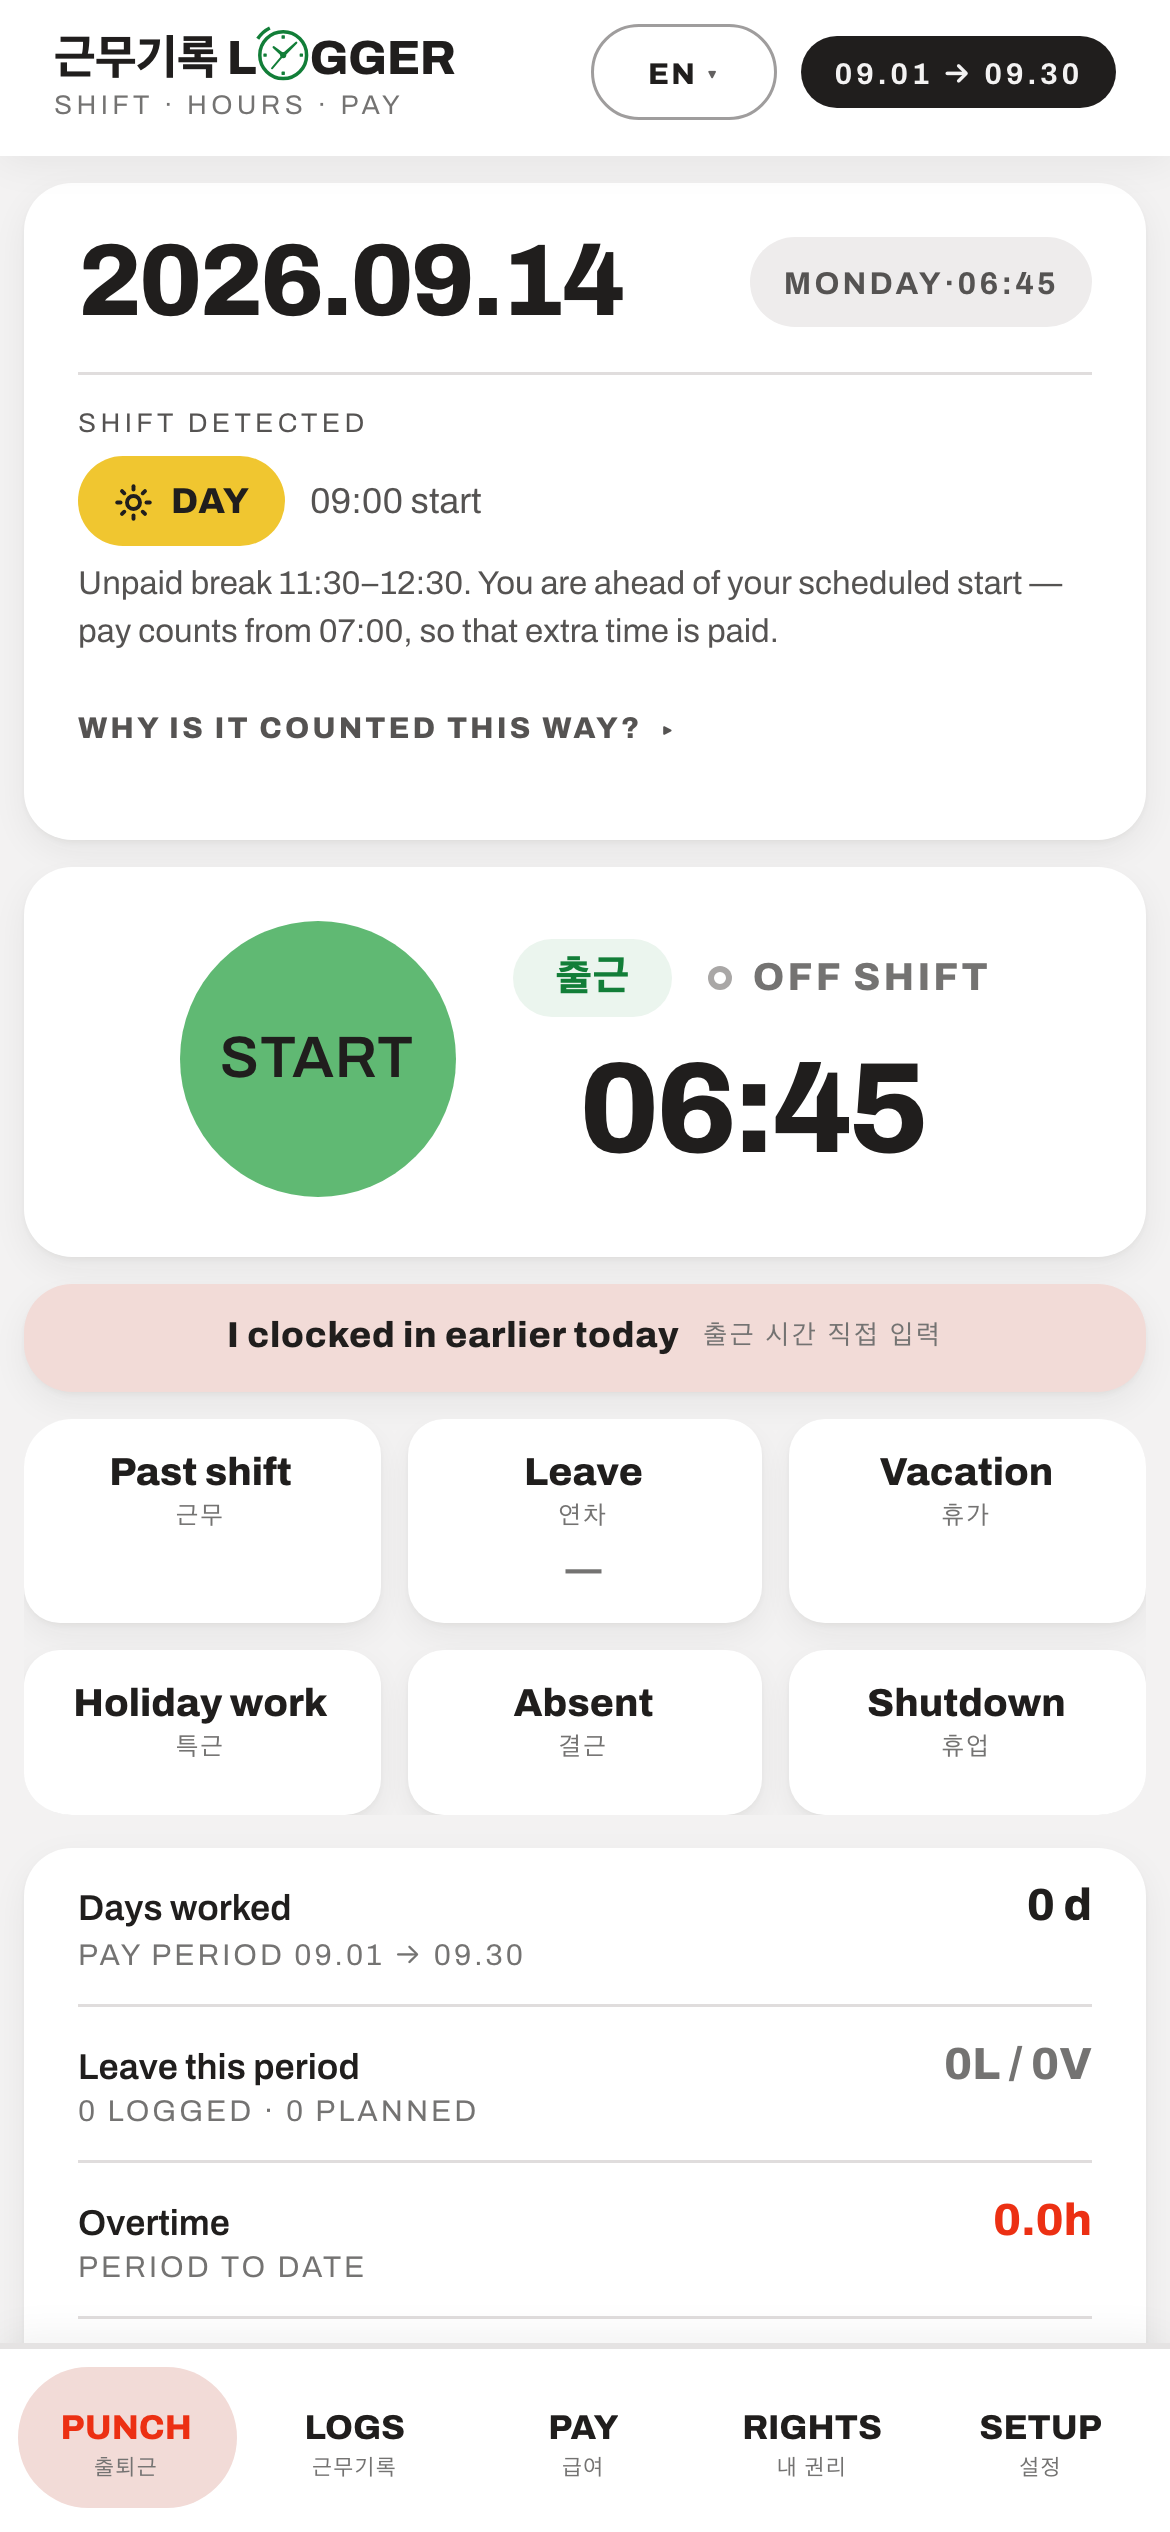
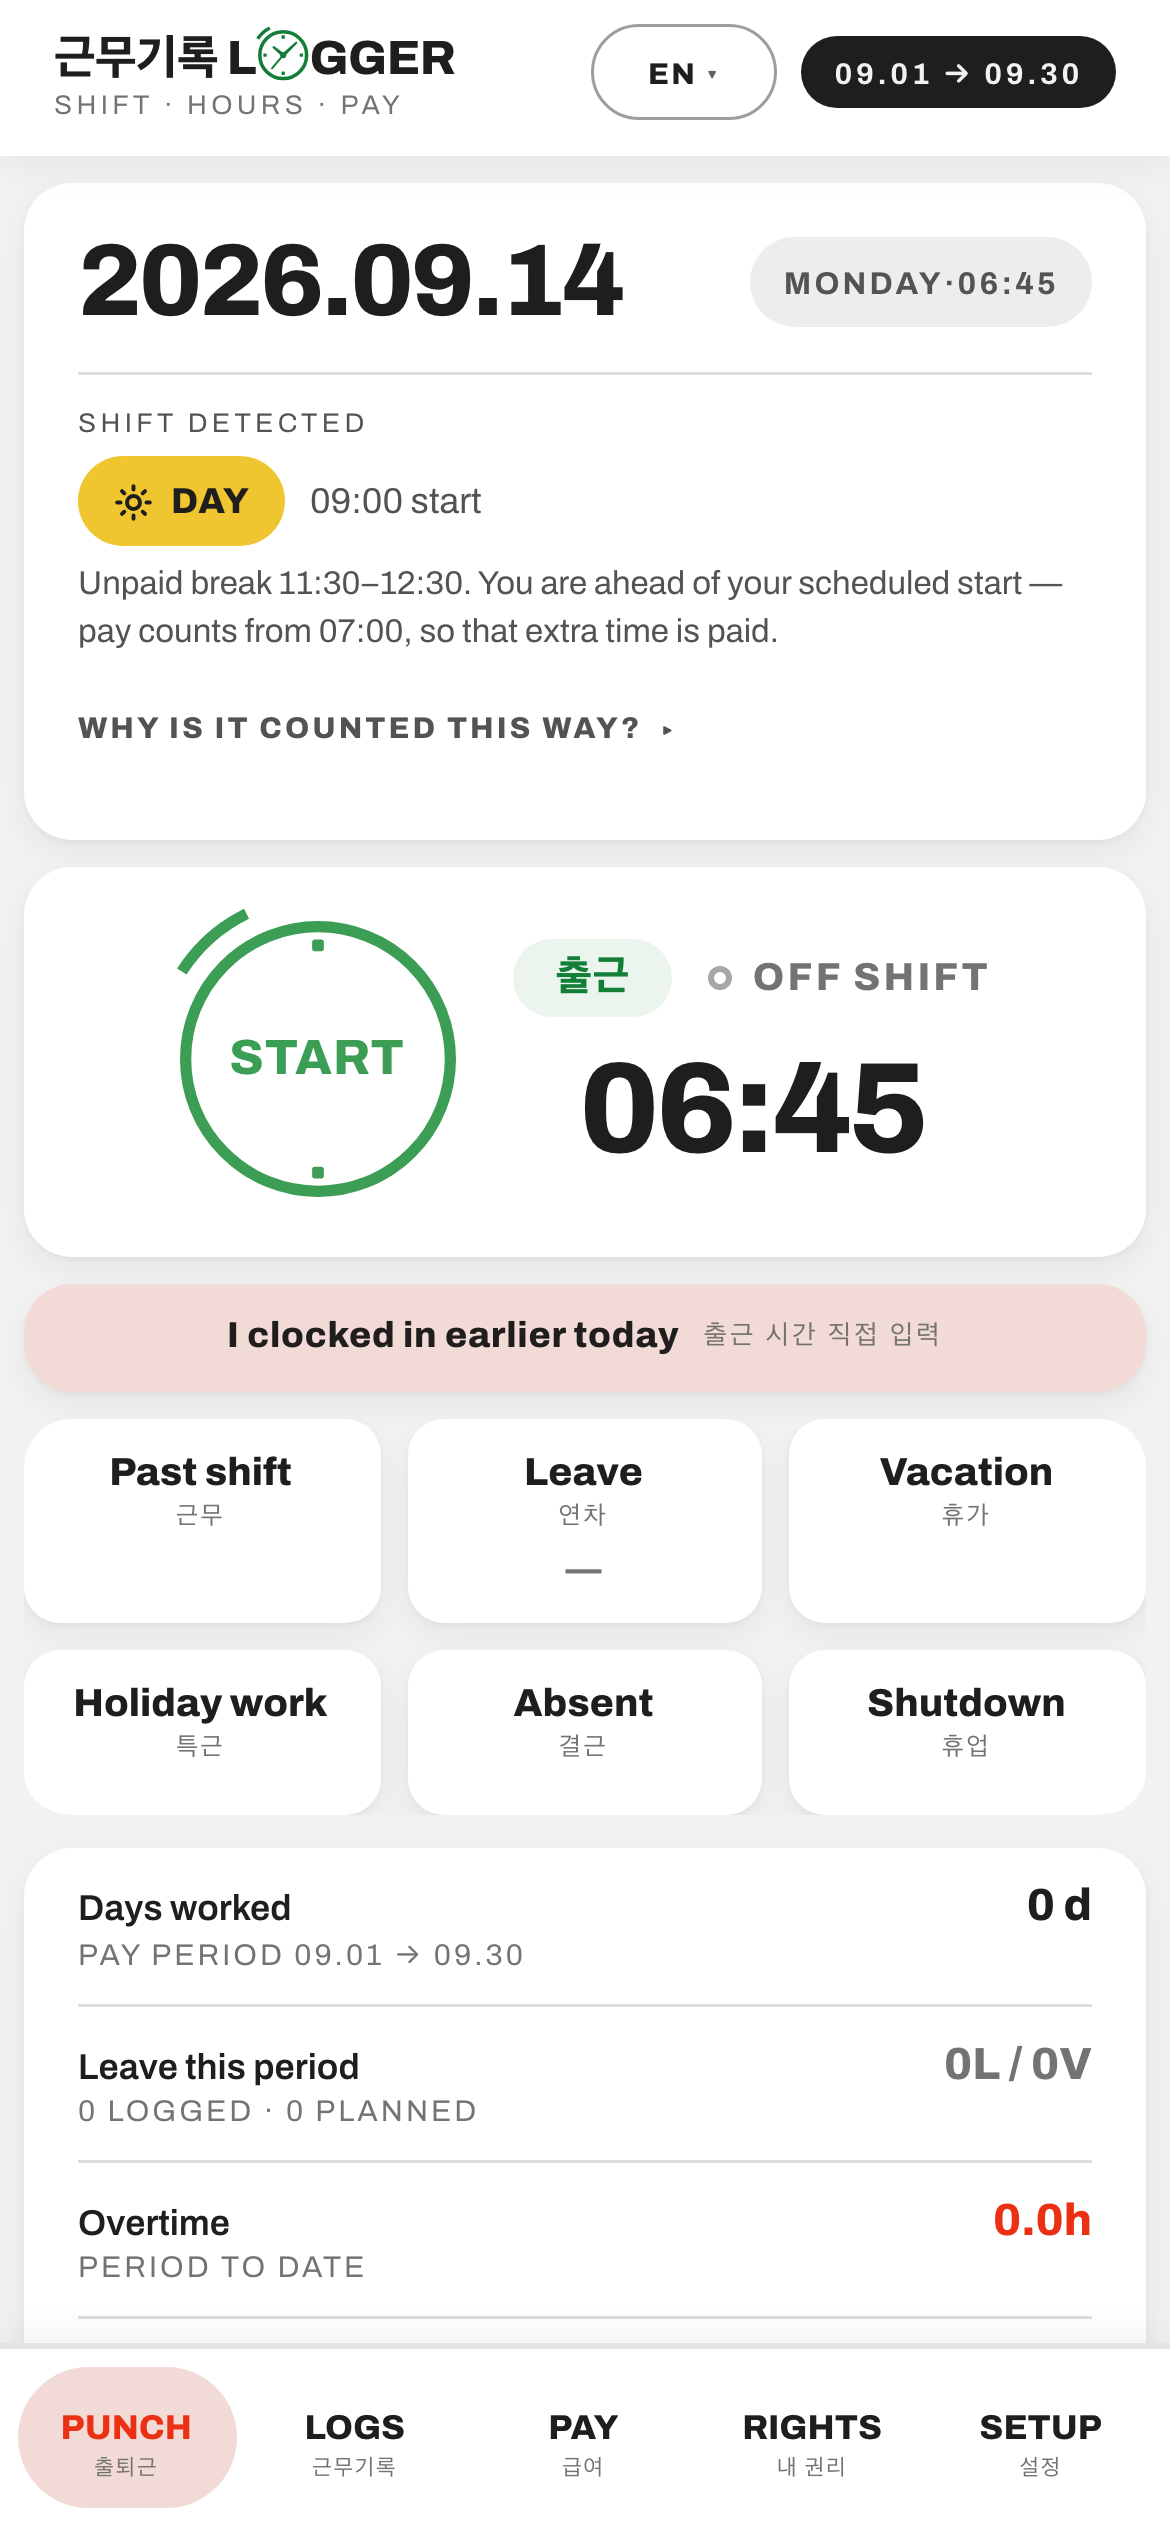
chore: re-shoot LOGGER's pictures on 1.7.0's clock-face START

Changed region(s): [[0.1538, 0.3432, 0.4, 0.4992]]

diff --git a/tools/sample-output/record.html b/tools/sample-output/record.html
@@ -1,1 +1,1 @@
-<!doctype html><meta charset="utf-8"><title>근무내역서 09.01 → 09.30</title><style>body{font-family:-apple-system,system-ui,"Malgun Gothic",sans-serif;margin:24px;color:#111;font-size:13px}h1{font-size:19px;margin:0 0 2px}h2{font-size:13px;margin:22px 0 6px;letter-spacing:.04em}table{border-collapse:collapse;width:100%;margin-top:4px}th,td{border:1px solid #bbb;padding:4px 6px;text-align:left}th{background:#eee;font-weight:600}td.n,th.n{text-align:right;font-variant-numeric:tabular-nums}.k{color:#666;font-size:11px}.warn{border:2px solid #ec3013;padding:8px 10px;margin-top:8px}.self{border:2px solid #111;padding:9px 11px;margin-top:9px;font-size:11.5px;line-height:1.55}.who{font-size:13px;margin-top:5px;line-height:1.5}.who b{font-weight:700}.who.nm{color:#ec3013;font-size:11.5px}.who .nm{color:#ec3013;font-size:11px}ol.k{margin:5px 0 0;padding-left:17px}ol.k li{margin-bottom:3px}ul{margin:4px 0;padding-left:18px}@media print{body{margin:0}}</style><h1>근무내역서 · Work record</h1><div class="who">근로자 성명 <b>Jane Doe</b></div><div class="who">사업장 <b>(주) 가나다산업</b></div><div class="k">급여기간 09.01 → 09.30 · 지급일 10.10 · 작성 2026.09.14</div><div class="self"><b>이 문서는 근로자 본인이 작성한 기록입니다.</b> 회사나 공공기관이 발행한 증명서가 아닙니다. 출퇴근 시각은 근로자 본인이 휴대폰에 기록한 것이고, 아래 금액은 그 기록과 본인이 입력한 임금 조건으로 앱이 계산한 <b>참고용 추정치</b>입니다.</div><h2>계산 기준</h2><table><tr><th>기본금</th><td class="n">₩2,156,880</td><th>기준시간</th><td class="n">209시간</td></tr><tr><th>통상시급</th><td class="n">₩10,320</td><th>연장 ×1.5</th><td class="n">₩15,480</td></tr><tr><th>야간 ×0.5</th><td class="n">₩5,160</td><th>휴일 8시간 초과 ×2</th><td class="n">₩20,640</td></tr></table><h2>일별 기록</h2><table><tr><th>날짜</th><th>구분</th><th>인정 출퇴근</th><th class="n">실근무</th><th class="n">연장</th><th class="n">야간</th><th class="n">휴일</th><th class="n">변동수당</th><th>사유</th></tr><tr><td>09.08 (화)</td><td>주간</td><td>09:00 → 18:00</td><td class="n">8.0</td><td class="n">0.0</td><td class="n">0.0</td><td class="n">0.0</td><td class="n">₩0</td><td></td></tr><tr><td>09.09 (수)</td><td>주간</td><td>09:00 → 18:00</td><td class="n">8.0</td><td class="n">0.0</td><td class="n">0.0</td><td class="n">0.0</td><td class="n">₩0</td><td></td></tr><tr><td>09.10 (목)</td><td>주간</td><td>09:00 → 18:00</td><td class="n">8.0</td><td class="n">0.0</td><td class="n">0.0</td><td class="n">0.0</td><td class="n">₩0</td><td></td></tr><tr><td>09.11 (금)</td><td>주간</td><td>09:00 → 18:00</td><td class="n">8.0</td><td class="n">0.0</td><td class="n">0.0</td><td class="n">0.0</td><td class="n">₩0</td><td></td></tr></table><h2>합계</h2><table><tr><th>근무일수</th><td class="n">4일</td><th>실근무 (정상)</th><td class="n">32.0시간</td></tr><tr><th>연장근로</th><td class="n">0.0시간</td><td class="n">₩0</td><td></td></tr><tr><th>야간근로</th><td class="n">0.0시간</td><td class="n">₩0</td><td></td></tr><tr><th>휴일근로</th><td class="n">0.0시간</td><td class="n">₩0</td><td></td></tr><tr><th>지급총액</th><td class="n">₩2,156,880</td><th>공제 후 실수령(추정)</th><td class="n">₩1,939,990</td></tr></table><h2>안내</h2><ol class="k"><li>이 문서는 근로자 본인의 기록을 정리한 <b>참고자료</b>이며, 법률 자문이나 노무 상담이 아닙니다. 이 문서를 만든 앱과 그 제작자는 공인노무사·변호사가 아니며, 어떤 사건도 대리하거나 대행하지 않습니다.</li><li>임금의 지급 여부와 그 금액에 대한 판단은 <b>고용노동부와 공인노무사·변호사</b>의 몫입니다. 확정 금액은 회사가 발행한 급여명세서와 근로계약서를 따릅니다.</li><li>소득세와 4대보험은 추정치이므로 실제 공제액과 다를 수 있습니다. 앱이 아는 법령과 요율이 현재와 다를 수 있으므로, 이 문서의 금액은 반드시 별도로 확인하십시오.</li><li>상담은 <b>고용노동부 고객상담센터 ☎ 1350</b> (평일 09:00–18:00, 통역 지원) 또는 노동포털 labor.moel.go.kr, 가까운 외국인노동자지원센터에서 <b>무료로</b> 받을 수 있습니다.</li></ol><div class="k" style="margin-top:6px">작성 도구: 근무기록 LOGGER 1.5.0 — 오프라인 앱, 기록은 본인 휴대폰에만 저장됩니다.</div>
+<!doctype html><meta charset="utf-8"><meta name="color-scheme" content="light only"><title>근무내역서 09.01 → 09.30</title><style>:root{color-scheme:light only}body{font-family:-apple-system,system-ui,"Malgun Gothic",sans-serif;margin:24px;color:#111;background:#fff;font-size:13px}h1{font-size:19px;margin:0 0 2px}h2{font-size:13px;margin:22px 0 6px;letter-spacing:.04em}table{border-collapse:collapse;width:100%;margin-top:4px}th,td{border:1px solid #bbb;padding:4px 6px;text-align:left}th{background:#eee;font-weight:600}td.n,th.n{text-align:right;font-variant-numeric:tabular-nums}.k{color:#666;font-size:11px}.warn{border:2px solid #ec3013;padding:8px 10px;margin-top:8px}.self{border:2px solid #111;padding:9px 11px;margin-top:9px;font-size:11.5px;line-height:1.55}.who{font-size:13px;margin-top:5px;line-height:1.5}.who b{font-weight:700}.who.nm{color:#ec3013;font-size:11.5px}.who .nm{color:#ec3013;font-size:11px}ol.k{margin:5px 0 0;padding-left:17px}ol.k li{margin-bottom:3px}ul{margin:4px 0;padding-left:18px}@media print{body{margin:0}}</style><h1>근무내역서 · Work record</h1><div class="who">근로자 성명 <b>Jane Doe</b></div><div class="who">사업장 <b>(주) 가나다산업</b></div><div class="k">급여기간 09.01 → 09.30 · 지급일 10.10 · 작성 2026.09.14</div><div class="self"><b>이 문서는 근로자 본인이 작성한 기록입니다.</b> 회사나 공공기관이 발행한 증명서가 아닙니다. 출퇴근 시각은 근로자 본인이 휴대폰에 기록한 것이고, 아래 금액은 그 기록과 본인이 입력한 임금 조건으로 앱이 계산한 <b>참고용 추정치</b>입니다.</div><h2>계산 기준</h2><table><tr><th>기본금</th><td class="n">₩2,156,880</td><th>기준시간</th><td class="n">209시간</td></tr><tr><th>통상시급</th><td class="n">₩10,320</td><th>연장 ×1.5</th><td class="n">₩15,480</td></tr><tr><th>야간 ×0.5</th><td class="n">₩5,160</td><th>휴일 8시간 초과 ×2</th><td class="n">₩20,640</td></tr></table><h2>일별 기록</h2><table><tr><th>날짜</th><th>구분</th><th>인정 출퇴근</th><th class="n">실근무</th><th class="n">연장</th><th class="n">야간</th><th class="n">휴일</th><th class="n">변동수당</th><th>사유</th></tr><tr><td>09.08 (화)</td><td>주간</td><td>09:00 → 18:00</td><td class="n">8.0</td><td class="n">0.0</td><td class="n">0.0</td><td class="n">0.0</td><td class="n">₩0</td><td></td></tr><tr><td>09.09 (수)</td><td>주간</td><td>09:00 → 18:00</td><td class="n">8.0</td><td class="n">0.0</td><td class="n">0.0</td><td class="n">0.0</td><td class="n">₩0</td><td></td></tr><tr><td>09.10 (목)</td><td>주간</td><td>09:00 → 18:00</td><td class="n">8.0</td><td class="n">0.0</td><td class="n">0.0</td><td class="n">0.0</td><td class="n">₩0</td><td></td></tr><tr><td>09.11 (금)</td><td>주간</td><td>09:00 → 18:00</td><td class="n">8.0</td><td class="n">0.0</td><td class="n">0.0</td><td class="n">0.0</td><td class="n">₩0</td><td></td></tr></table><h2>합계</h2><table><tr><th>근무일수</th><td class="n">4일</td><th>실근무 (정상)</th><td class="n">32.0시간</td></tr><tr><th>연장근로</th><td class="n">0.0시간</td><td class="n">₩0</td><td></td></tr><tr><th>야간근로</th><td class="n">0.0시간</td><td class="n">₩0</td><td></td></tr><tr><th>휴일근로</th><td class="n">0.0시간</td><td class="n">₩0</td><td></td></tr><tr><th>지급총액</th><td class="n">₩2,156,880</td><th>공제 후 실수령(추정)</th><td class="n">₩1,939,990</td></tr></table><h2>안내</h2><ol class="k"><li>이 문서는 근로자 본인의 기록을 정리한 <b>참고자료</b>이며, 법률 자문이나 노무 상담이 아닙니다. 이 문서를 만든 앱과 그 제작자는 공인노무사·변호사가 아니며, 어떤 사건도 대리하거나 대행하지 않습니다.</li><li>임금의 지급 여부와 그 금액에 대한 판단은 <b>고용노동부와 공인노무사·변호사</b>의 몫입니다. 확정 금액은 회사가 발행한 급여명세서와 근로계약서를 따릅니다.</li><li>소득세와 4대보험은 추정치이므로 실제 공제액과 다를 수 있습니다. 앱이 아는 법령과 요율이 현재와 다를 수 있으므로, 이 문서의 금액은 반드시 별도로 확인하십시오.</li><li>상담은 <b>고용노동부 고객상담센터 ☎ 1350</b> (평일 09:00–18:00, 통역 지원) 또는 노동포털 labor.moel.go.kr, 가까운 외국인노동자지원센터에서 <b>무료로</b> 받을 수 있습니다.</li></ol><div class="k" style="margin-top:6px">작성 도구: 근무기록 LOGGER 1.7.0 — 오프라인 앱, 기록은 본인 휴대폰에만 저장됩니다.</div>

diff --git a/guides/logger.md b/guides/logger.md
@@ -49,7 +49,7 @@ steps:
     body: Three things set, and the app is ready. From here it records shifts and works out what you are owed.
 after:
   - image: 07-punch
-    alt: The daily punch screen, showing the date, an assumed day shift, and a round START button beside the clock, marked OFF SHIFT.
+    alt: The daily punch screen, showing the date, an assumed day shift, and a START button drawn as a green clock face beside the time, marked OFF SHIFT.
     kicker: Every day
     title: One tap when you arrive, one when you leave
     body: Tap 출근 START when you arrive and 퇴근 STOP when you leave. The app decides on its own whether it was a day or a night shift and takes your breaks off. Nothing to fill in.

diff --git a/CHANGELOG.md b/CHANGELOG.md
@@ -6,6 +6,10 @@ All notable changes to this site are recorded here. The format follows
 
 ## [Unreleased]
 
+### Changed
+- LOGGER's pictures are re-shot on 1.7.0, so the phone on the homepage and the guide's punch
+  step show the new START button drawn as a clock face instead of the solid green circle.
+
 ## [1.8.0] — 2026-11-09
 
 ### Added

diff --git a/apps/logger.md b/apps/logger.md
@@ -60,7 +60,6 @@ release:
   source: itsdoubleem/Logger_app
   asset: worklog-release.apk
   signer: 115e06d0d0561fabf41daaf832fe1fa058519a60bbc3729719fecb75f6e610da
-  captured: '1.5.0'
 ---
 
 ## What it does
